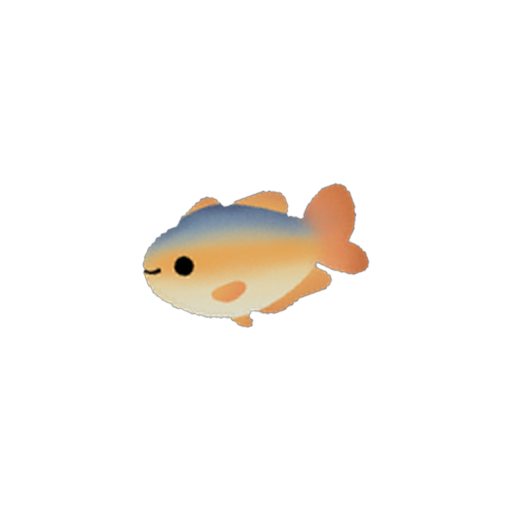
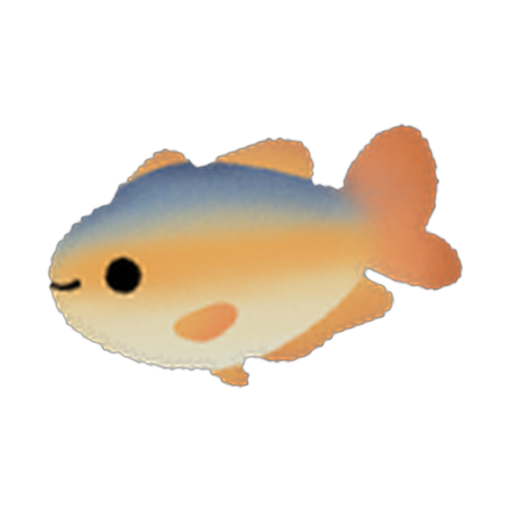
v286: Fix card payment flow — stale payment cards, symbol mismatch recovery
- Rework submitAction payment guard: if selected payment cards are for a
  different action (e.g. user dragged a new card while payment mode was
  active), clear the stale selection and re-enter payment mode cleanly.
  Prevents wrong cards being auto-submitted as payment for a different play.

- When choosePayment() validation fails (e.g. wrong symbol, not enough cards),
  re-enter payment mode with an empty selection so the user sees the error AND
  can immediately pick valid cards — no more getting stuck in a broken state.

- Also includes the Amberjack resize to 82% canvas width (ws10 cache-bust)
  to match other animal avatar proportions.

Changed region(s): [[0.0938, 0.2188, 0.9062, 0.7812]]

diff --git a/multiplayer/client/preview.html b/multiplayer/client/preview.html
@@ -11123,7 +11123,7 @@
   // refreshed avatar image (same /avatars/x.png path) is never served stale.
   // Only touches /avatars/ paths — external (Google) avatar URLs are left as-is.
   // Stored/compared paths stay clean; the server ignores the query (basename match).
-  const _AVATAR_ART_VERSION = "ws9";
+  const _AVATAR_ART_VERSION = "ws10";
   function _avSrc(url) {
     const u = String(url || "");
     // Cache-bust both avatar AND background art so a version bump always refreshes
@@ -13105,11 +13105,21 @@
   }
 
   async function submitAction(action) {
-    // If the action costs cards and no payment has been selected yet, enter payment
-    // mode instead of submitting — this catches every code path (drag, click, stack +).
-    if (Number(action.cost_to_pay || 0) > 0 && selectedPayment.size === 0) {
-      enterPaymentMode(action);
-      return;
+    // If the action costs cards, ensure we have valid payment staged for THIS action.
+    // enterPaymentMode() clears any stale selection from a prior action.
+    if (Number(action.cost_to_pay || 0) > 0) {
+      // Payment is considered "confirmed" (pendingPayAction=null) only when the user
+      // explicitly clicked Confirm Payment, clearing pendingPayAction before calling here.
+      // In every other path (drag, slot-click, picker) pendingPayAction is still set or null
+      // from a prior action — if it doesn't match the current action, re-enter payment mode.
+      const confirmedPath = pendingPayAction === null && selectedPayment.size > 0;
+      const sameStagedAction = pendingPayAction !== null &&
+        Number(pendingPayAction.card_uid) === Number(action.card_uid) &&
+        Number(pendingPayAction.ocean_uid ?? -1) === Number(action.ocean_uid ?? -1);
+      if (!confirmedPath && !sameStagedAction) {
+        enterPaymentMode(action);
+        return;
+      }
     }
 
     // Hand-over-10 warning: ONLY for manual draw actions (pool / deck / mix).
@@ -13159,7 +13169,11 @@
     const cost = Number(action.cost_to_pay||0);
     if (cost > 0) {
       const pay = choosePayment(action);
-      if (pay.error) { setStatus(pay.error); showToast(pay.error, "err"); return; }
+      if (pay.error) {
+        // Invalid selection — re-enter payment mode so the user can pick valid cards.
+        enterPaymentMode(action);
+        setStatus(pay.error); showToast(pay.error, "err"); return;
+      }
       pl.payment_uids = pay.picks;
     }
 
